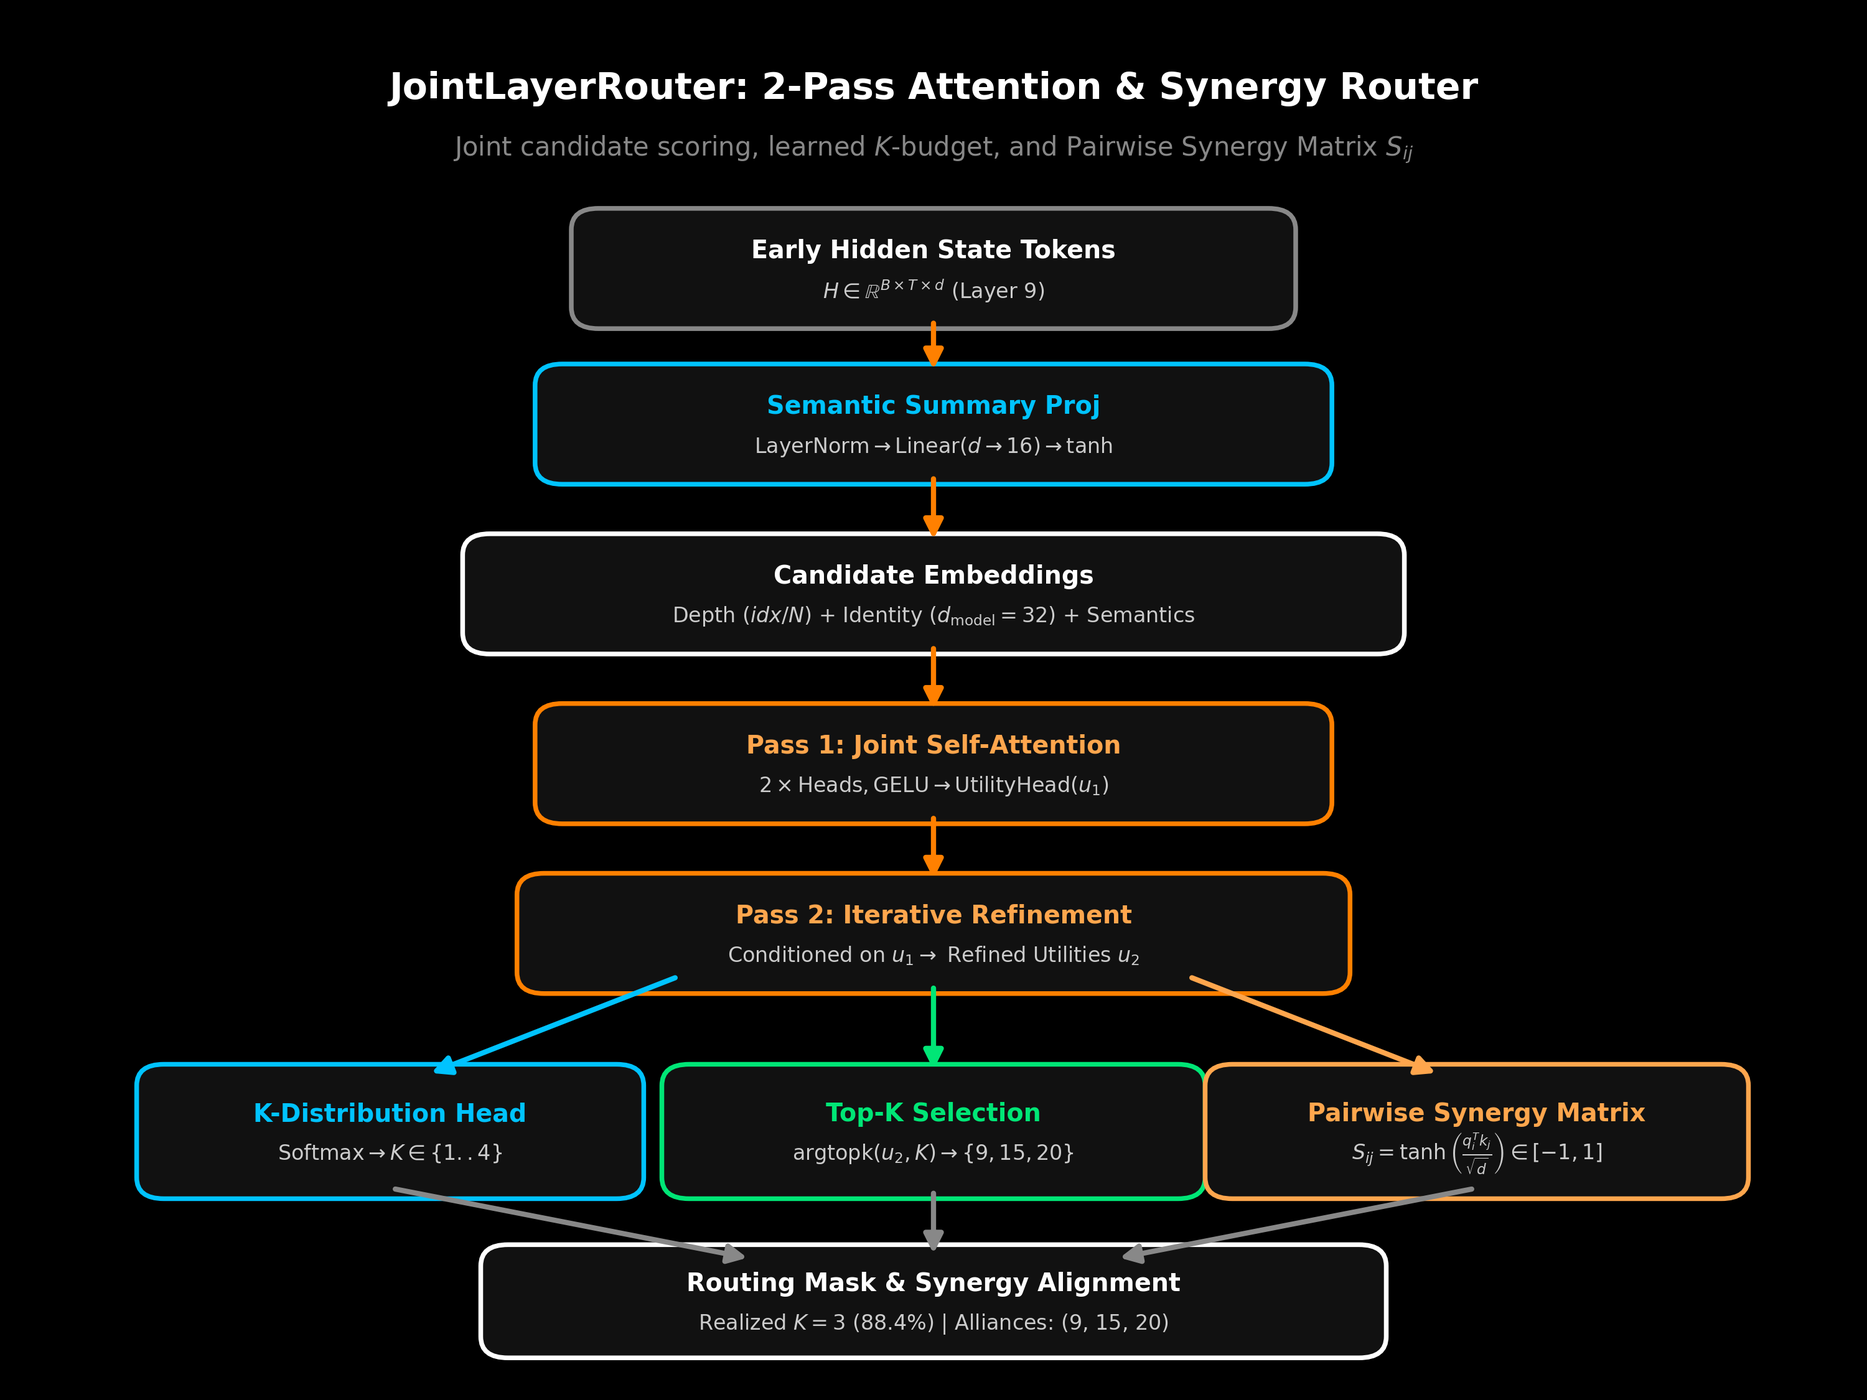
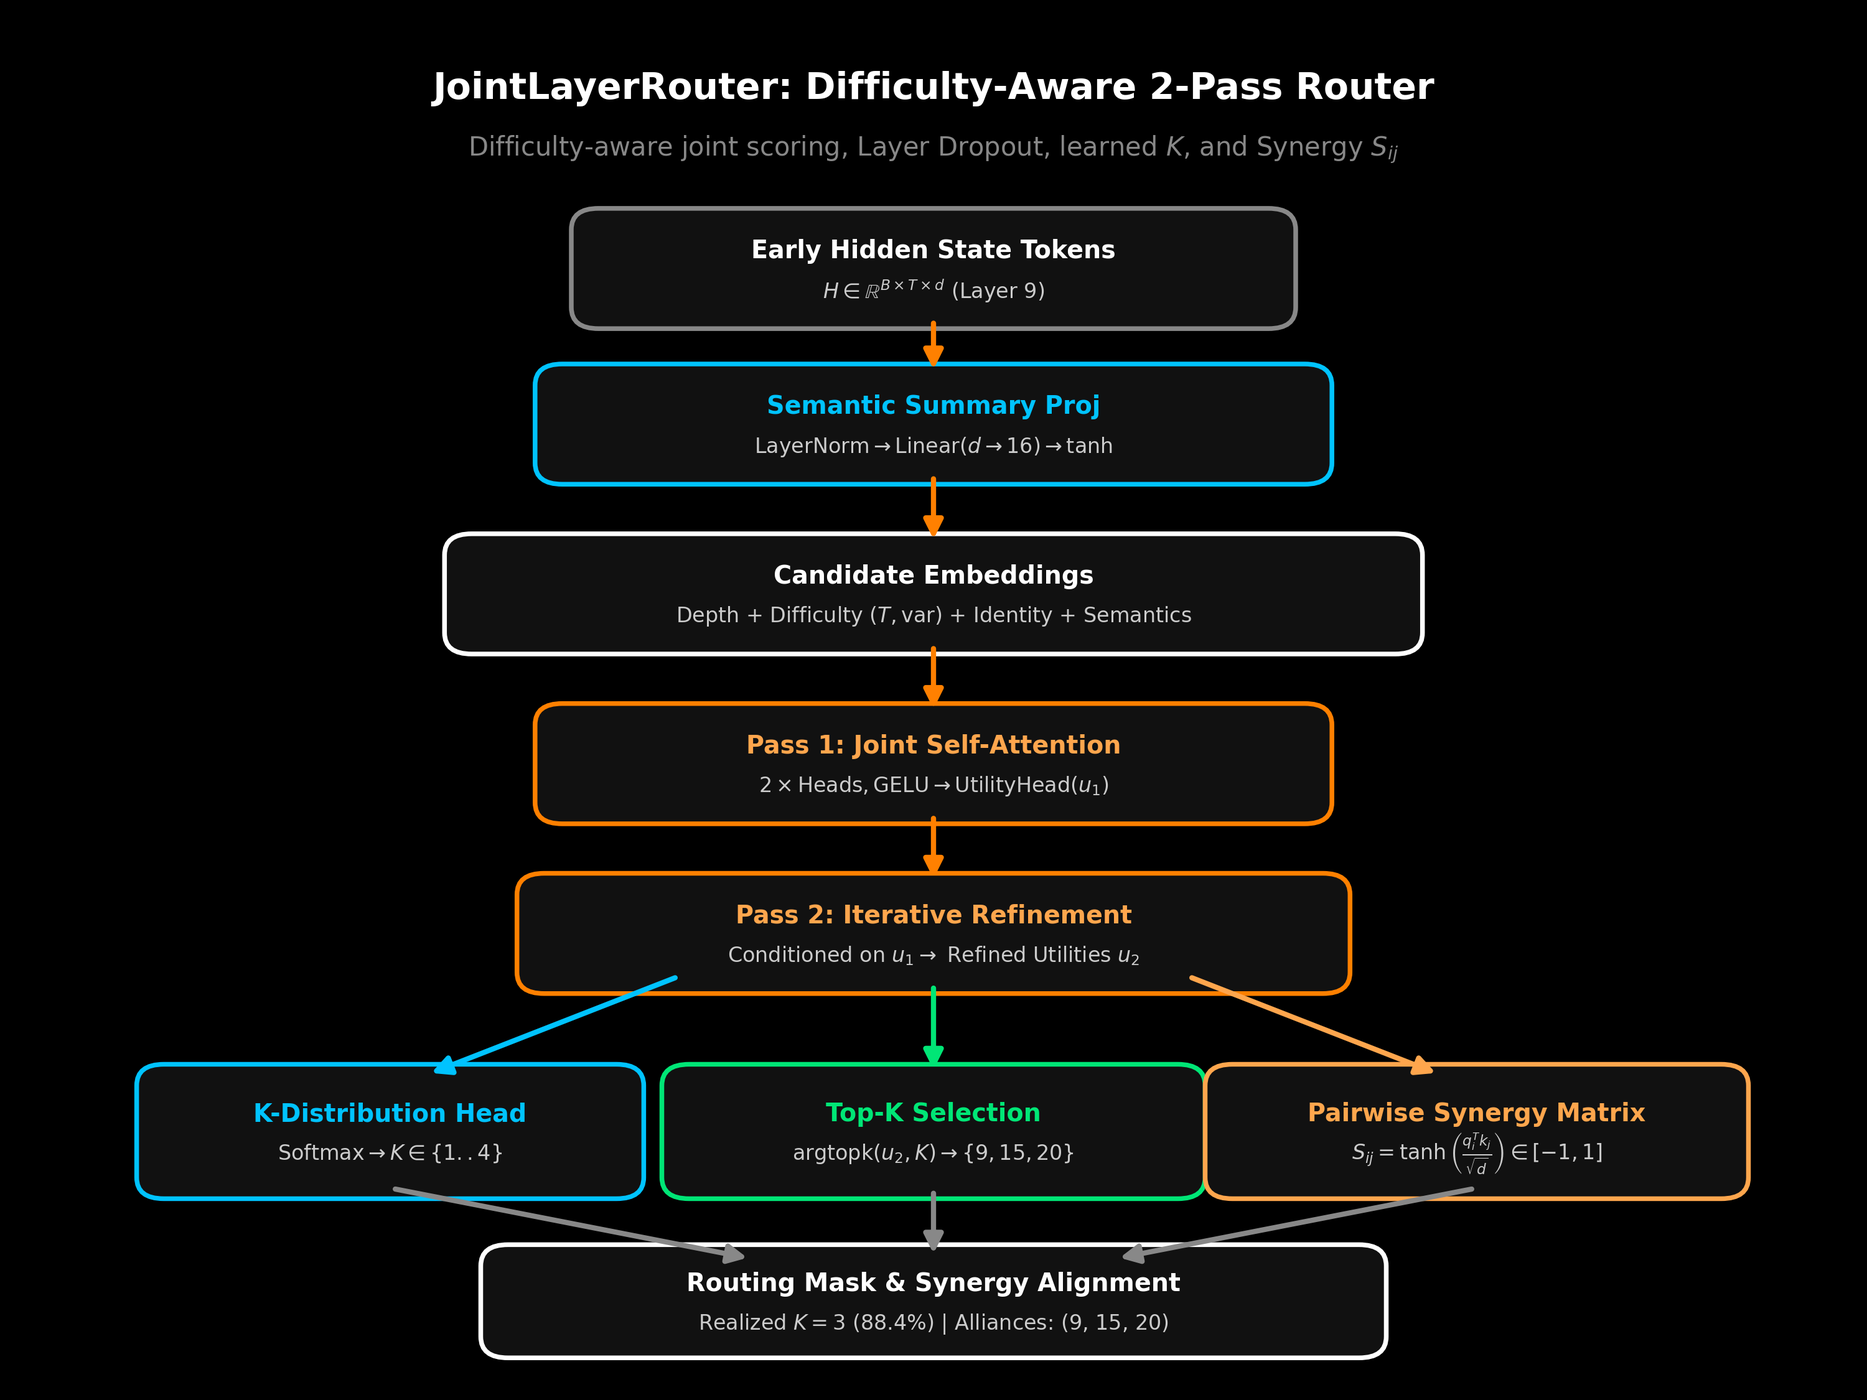
feat(arch): overhaul Token Gate 2.0, Bounded SteerNet 2.0, and Difficulty Router 2.0 (v1.2.0)

diff --git a/src/routing/router.py b/src/routing/router.py
@@ -15,7 +15,9 @@ class JointLayerRouter(nn.Module):
     def __init__(self, target_layers: List[int], hidden_dim: int, n_layers: int,
                  max_active_layers: int = 4,
                  semantic_dim: int = 16, candidate_semantic_dim: int = 8,
-                 d_model: int = 32, n_heads: int = 2):
+                 d_model: int = 32, n_heads: int = 2,
+                 layer_dropout: float = 0.15,
+                 difficulty_aware: bool = True):
         super().__init__()
         self.target_layers = list(target_layers)
         n_candidates = len(self.target_layers)
@@ -23,6 +25,8 @@ class JointLayerRouter(nn.Module):
         self.max_active_layers = max_active_layers
         self.candidate_semantic_dim = candidate_semantic_dim
         self.semantic_dim = semantic_dim
+        self.layer_dropout = layer_dropout
+        self.difficulty_aware = difficulty_aware
         depths = torch.tensor(
             [idx / max(1, n_layers - 1) for idx in self.target_layers], dtype=torch.float32
         )
@@ -35,7 +39,9 @@ class JointLayerRouter(nn.Module):
 
         self.identity_embed = nn.Embedding(n_candidates, d_model)
         nn.init.normal_(self.identity_embed.weight, mean=0.0, std=0.1)
-        self.input_proj = nn.Linear(4 + candidate_semantic_dim, d_model)
+        
+        n_scalar_dim = 5 if difficulty_aware else 3
+        self.input_proj = nn.Linear(n_scalar_dim + 1 + candidate_semantic_dim, d_model)
 
         # Pass 1: initial joint scoring
         self.attend = nn.TransformerEncoderLayer(
@@ -96,7 +102,17 @@ class JointLayerRouter(nn.Module):
         rms_std = centered.square().sum(dim=1).div(denom).sqrt()
         coverage = valid.mean(dim=1)
         pooled = (h_det * valid.unsqueeze(-1)).sum(dim=1) / denom.unsqueeze(-1)
-        self._last_scalars = torch.stack([mean_rms, rms_std, coverage], dim=-1).detach()
+
+        if self.difficulty_aware:
+            # Difficulty indicators:
+            # 1. Normalized sequence reasoning length: log(1 + denom) / 6.24 (capped in [0, 1])
+            norm_len = (torch.log1p(denom) / 6.24).clamp(0.0, 1.0)
+            # 2. Hidden state dispersion (mean absolute token deviation from sequence mean)
+            dispersion = (centered.abs().sum(dim=1) / denom).clamp(min=0.0)
+            self._last_scalars = torch.stack([mean_rms, rms_std, coverage, norm_len, dispersion], dim=-1).detach()
+        else:
+            self._last_scalars = torch.stack([mean_rms, rms_std, coverage], dim=-1).detach()
+
         self._last_pooled = pooled.detach()
         per_candidate_semantic = self._semantic_from_pooled(pooled)
         return self._last_scalars, per_candidate_semantic
@@ -120,6 +136,15 @@ class JointLayerRouter(nn.Module):
         u_final = self.utility_head_refine(attended_2).squeeze(-1)
         pooled_2 = attended_2.mean(dim=1)
         k_logits = self.k_head(pooled_2)
+
+        # Stochastic Layer Dropout during training:
+        # Prevents co-dependent clique stacking by randomly masking candidate layers,
+        # forcing each candidate layer to learn an independent marginal steering utility.
+        if self.training and self.layer_dropout > 0.0:
+            drop_mask = torch.rand_like(u_final) < self.layer_dropout
+            all_dropped = drop_mask.all(dim=-1, keepdim=True)
+            drop_mask = drop_mask & (~all_dropped)
+            u_final = u_final.masked_fill(drop_mask, -1e4)
 
         # Cross-layer cooperation & synergy matrix: S_ij = tanh((e_i W_syn e_j^T) / sqrt(d))
         query = self.synergy_proj(attended_2)

diff --git a/src/steering/steernet.py b/src/steering/steernet.py
@@ -2,11 +2,13 @@ import torch
 import torch.nn as nn
 
 class RSCSteerNet(nn.Module):
-    """K-aware low-rank residual steering MLP.
+    """K-aware low-rank residual steering MLP with Bounded Relative Perturbation.
     
     Produces a correction delta from hidden state h, conditioned on the number of
-    simultaneously active candidate layers (active_k) to prevent signal dilution
-    when multiple layers steer concurrently.
+    simultaneously active candidate layers (active_k).
+    Enforces a strict relative perturbation envelope: ||delta|| <= beta * ||h||
+    to prevent base representation collapse and destructive interference.
+    Optionally projects delta onto the orthogonal complement of h.
     """
 
     def __init__(
@@ -17,10 +19,14 @@ class RSCSteerNet(nn.Module):
         dropout: float = 0.1,
         magnitude_mode: str = "direct",
         max_magnitude: float = 2.0,
+        max_relative_norm: float = 0.15,
+        orthogonal_projection: bool = False,
     ):
         super().__init__()
         self.magnitude_mode = magnitude_mode
         self.max_magnitude = max_magnitude
+        self.max_relative_norm = max_relative_norm
+        self.orthogonal_projection = orthogonal_projection
         self.norm = nn.LayerNorm(hidden_dim)
         self.down1 = nn.Linear(hidden_dim, rank, bias=False)
         self.act1 = nn.GELU()
@@ -45,7 +51,8 @@ class RSCSteerNet(nn.Module):
             nn.init.xavier_uniform_(lin.weight, gain=0.02)
 
     def forward(self, h: torch.Tensor, active_k: torch.Tensor = None) -> torch.Tensor:
-        x = self.norm(h.float())
+        h_flt = h.float()
+        x = self.norm(h_flt)
         x = self.drop1(self.act1(self.down1(x)))
         if active_k is not None:
             k_norm = (active_k.to(dtype=x.dtype) / 4.0).view(-1, 1, 1)
@@ -58,6 +65,26 @@ class RSCSteerNet(nn.Module):
             d_norm = torch.norm(delta, dim=-1, keepdim=True) + 1e-7
             direction = delta / d_norm
             mag = torch.exp(self.log_magnitude).clamp(max=self.max_magnitude)
-            return direction * mag * self.scale.to(x.dtype)
+            delta = direction * mag * self.scale.to(x.dtype)
+        else:
+            delta = delta * self.scale.to(x.dtype)
 
-        return delta * self.scale.to(x.dtype)
+        # Bounded Relative Perturbation Envelope:
+        # Prevents residual explosion: ||delta|| <= beta * ||h||
+        if self.max_relative_norm > 0:
+            h_norm = torch.norm(h_flt, dim=-1, keepdim=True) + 1e-7
+            delta_norm = torch.norm(delta, dim=-1, keepdim=True) + 1e-7
+            max_allowed = self.max_relative_norm * h_norm
+            scale_factor = torch.clamp(max_allowed / delta_norm, max=1.0)
+            delta = delta * scale_factor
+
+        # Orthogonal Steering Projection (optional):
+        # Projects delta onto the orthogonal complement of h so steering strictly
+        # rotates/steers representation features without inflating radial norm.
+        if self.orthogonal_projection:
+            h_sq = torch.sum(h_flt * h_flt, dim=-1, keepdim=True) + 1e-7
+            proj = (torch.sum(delta * h_flt, dim=-1, keepdim=True) / h_sq) * h_flt
+            delta = delta - proj
+
+        return delta
+

diff --git a/tests/test_audit_simplification.py b/tests/test_audit_simplification.py
@@ -122,5 +122,52 @@ class TestAuditSimplification(unittest.TestCase):
         out = wrapped(input_ids=inp, attention_mask=mask)
         self.assertIsNotNone(out)
 
+    def test_steernet_bounded_relative_norm(self):
+        # Even with an artificially inflated lora_alpha, ||delta|| / ||h|| must never exceed max_relative_norm
+        beta_max = 0.12
+        net = RSCSteerNet(
+            self.hidden_dim, self.rank, lora_alpha=5000.0, max_relative_norm=beta_max
+        )
+        h = torch.randn(2, 8, self.hidden_dim)
+        delta = net(h)
+        h_norm = torch.norm(h.float(), dim=-1, keepdim=True)
+        delta_norm = torch.norm(delta.float(), dim=-1, keepdim=True)
+        rel_ratio = delta_norm / (h_norm + 1e-7)
+        self.assertTrue((rel_ratio <= beta_max + 1e-4).all(), f"Max relative ratio was {rel_ratio.max().item()} > {beta_max}")
+
+    def test_steernet_orthogonal_projection(self):
+        net = RSCSteerNet(
+            self.hidden_dim, self.rank, self.alpha, orthogonal_projection=True
+        )
+        h = torch.randn(2, 8, self.hidden_dim)
+        delta = net(h)
+        dot_product = (delta * h).sum(dim=-1)
+        self.assertTrue(torch.allclose(dot_product, torch.zeros_like(dot_product), atol=1e-4))
+
+    def test_router_difficulty_awareness_and_dropout(self):
+        from src.routing.router import JointLayerRouter
+        router = JointLayerRouter(
+            target_layers=[2, 4, 6],
+            hidden_dim=self.hidden_dim,
+            n_layers=10,
+            max_active_layers=2,
+            layer_dropout=0.5,
+            difficulty_aware=True,
+        )
+        h = torch.randn(2, 8, self.hidden_dim)
+        mask = torch.ones(2, 8, dtype=torch.bool)
+        
+        # Test evaluation mode (no dropout applied)
+        router.eval()
+        u_eval, k_eval = router(h, mask)
+        self.assertEqual(u_eval.shape, (2, 3))
+        self.assertFalse((u_eval <= -5000.0).any())
+
+        # Test training mode (dropout can mask candidate layers)
+        router.train()
+        u_train, k_train = router(h, mask)
+        self.assertEqual(u_train.shape, (2, 3))
+
 if __name__ == "__main__":
     unittest.main()
+

diff --git a/scripts/generate_architecture_diagrams.py b/scripts/generate_architecture_diagrams.py
@@ -41,8 +41,8 @@ def generate_steernet_png(out_path: str):
     # Title
     ax.text(5.0, 8.4, "RSCSteerNet: K-Conditioned Low-Rank Residual MLP",
             color=WHITE, fontsize=14, fontweight="bold", ha="center")
-    ax.text(5.0, 8.0, r"Parameter-efficient correction: $\delta_t = \frac{\alpha}{r} W_{\mathrm{up}}( \mathrm{MLP}(h) + W_k(K) )$",
-            color=GRAY, fontsize=10, ha="center")
+    ax.text(5.0, 8.0, r"Bounded Relative Perturbation: $\|\delta\| \leq \beta \|h\|$, $\delta_t = \frac{\alpha}{r} W_{\mathrm{up}}(\mathrm{MLP}(h) + W_k(K))$",
+            color=GRAY, fontsize=9.5, ha="center")
 
     def draw_box(x, y, w, h, text, sub="", edge=BOX_EDGE, bg=BOX_BG, text_col=WHITE):
         rect = patches.FancyBboxPatch((x - w/2, y - h/2), w, h, boxstyle="round,pad=0.1,rounding_size=0.15",
@@ -288,9 +288,9 @@ def generate_router_png(out_path: str):
     ax.set_ylim(0, 9.5)
     ax.axis("off")
 
-    ax.text(5.0, 9.0, "JointLayerRouter: 2-Pass Attention & Synergy Router",
+    ax.text(5.0, 9.0, "JointLayerRouter: Difficulty-Aware 2-Pass Router",
             color=WHITE, fontsize=14, fontweight="bold", ha="center")
-    ax.text(5.0, 8.6, r"Joint candidate scoring, learned $K$-budget, and Pairwise Synergy Matrix $S_{ij}$",
+    ax.text(5.0, 8.6, r"Difficulty-aware joint scoring, Layer Dropout, learned $K$, and Synergy $S_{ij}$",
             color=GRAY, fontsize=10, ha="center")
 
     def draw_box(x, y, w, h, text, sub="", edge=BOX_EDGE, bg=BOX_BG, text_col=WHITE):
@@ -317,7 +317,7 @@ def generate_router_png(out_path: str):
     draw_arrow(5.0, 7.45, 5.0, 7.05)
 
     # Candidate Embeddings
-    draw_box(5.0, 5.5, 5.0, 0.65, "Candidate Embeddings", r"Depth ($idx/N$) + Identity ($d_{\mathrm{model}}=32$) + Semantics", edge=WHITE)
+    draw_box(5.0, 5.5, 5.2, 0.65, "Candidate Embeddings", r"Depth + Difficulty ($T,\mathrm{var}$) + Identity + Semantics", edge=WHITE)
     draw_arrow(5.0, 6.35, 5.0, 5.85)
 
     # Pass 1: Transformer Encoder

diff --git a/src/gating/gate.py b/src/gating/gate.py
@@ -25,10 +25,16 @@ class RSCUsefulnessGate(nn.Module):
         self.fc1 = nn.Linear(2 * hidden_dim + 2 + global_context_dim, gate_dim)
         self.act = nn.GELU()
         self.drop = nn.Dropout(cfg.gate_dropout)
+
+        # Causal Context Window (k=3) for local syntax & reasoning step awareness
+        self.causal_conv = nn.Conv1d(gate_dim, gate_dim, kernel_size=3, padding=2, groups=gate_dim)
+        nn.init.dirac_(self.causal_conv.weight)
+        nn.init.zeros_(self.causal_conv.bias)
+
         self.fc2 = nn.Linear(gate_dim, 1)
 
-        # Preserve the already-trained Phase-1 correction at the beginning of Phase 2
-        nn.init.zeros_(self.fc2.weight)
+        # Small non-zero initialization ensures gradient flow back into fc1 from step 0
+        nn.init.normal_(self.fc2.weight, std=0.02)
         init_logit = math.log(cfg.gate_init_alpha / (1.0 - cfg.gate_init_alpha))
         self.fc2.bias.data.fill_(init_logit)
 
@@ -78,6 +84,12 @@ class RSCUsefulnessGate(nn.Module):
 
         feat = torch.cat([h_n, d_n, mag, cos, ctx], dim=-1)  # (B, T, 2d + 2 + global_context_dim)
         x = self.drop(self.act(self.fc1(feat)))
+
+        # Local causal temporal context: gather reasoning context from past tokens
+        if x.shape[1] > 1:
+            x_conv = self.causal_conv(x.transpose(1, 2))[:, :, :x.shape[1]].transpose(1, 2)
+            x = x + self.drop(self.act(x_conv))
+
         gate_logit = torch.clamp(self.fc2(x), min=-10.0, max=10.0)
         alpha = torch.sigmoid(gate_logit)  # (B, T, 1)
 

diff --git a/src/models/wrapper.py b/src/models/wrapper.py
@@ -26,7 +26,12 @@ class Phi2WithRSC(nn.Module):
         self.gates = nn.ModuleDict()
         self.steer_nets = nn.ModuleDict()
         self.router = JointLayerRouter(
-            self.target_layers, self.hidden_dim, n_layers, cfg.max_active_layers
+            self.target_layers,
+            self.hidden_dim,
+            n_layers,
+            cfg.max_active_layers,
+            layer_dropout=getattr(cfg, "router_layer_dropout", 0.15),
+            difficulty_aware=getattr(cfg, "router_difficulty_aware", True),
         ).to(self.device)
 
         self._hooks = []
@@ -90,6 +95,8 @@ class Phi2WithRSC(nn.Module):
                 self.cfg.lora_dropout,
                 magnitude_mode=getattr(self.cfg, "steer_magnitude_mode", "direct"),
                 max_magnitude=getattr(self.cfg, "steer_max_magnitude", 2.0),
+                max_relative_norm=getattr(self.cfg, "steer_max_relative_norm", 0.15),
+                orthogonal_projection=getattr(self.cfg, "steer_orthogonal_projection", False),
             ).to(self.device)
             self.gates[str(idx)] = gate
             self.steer_nets[str(idx)] = steer

diff --git a/src/configs/config.py b/src/configs/config.py
@@ -25,6 +25,8 @@ class RSCConfig:
     lora_dropout: float = 0.05
     steer_magnitude_mode: str = "direct"  # 'direct' or 'decoupled' (direction normalized + bounded scale)
     steer_max_magnitude: float = 2.0
+    steer_max_relative_norm: float = 0.15  # Strictly bounds ||delta|| <= beta * ||h|| to prevent base representation collapse
+    steer_orthogonal_projection: bool = False  # Optional projection onto orthogonal complement of h
 
     # Data
     n_samples: int = 7000
@@ -97,6 +99,8 @@ class RSCConfig:
     beta_entropy_subset: float = 0.15
     router_balance_weight: float = 0.10
     lambda_synergy: float = 0.10
+    router_layer_dropout: float = 0.15  # Stochastic candidate dropout during training to prevent clique stacking
+    router_difficulty_aware: bool = True  # Sequence length & dispersion difficulty features for candidate scoring
 
     # Prompt Shielding (Preserves pristine representations in multi-shot contexts)
     prompt_shielding: bool = True

diff --git a/src/training/losses.py b/src/training/losses.py
@@ -161,10 +161,10 @@ def compute_gate_diversity_loss(model, floor: float = 0.05) -> torch.Tensor:
             if valid_b.sum() < 3:
                 continue
             vals = a_b[valid_b]
-            max_pos = vals.argmax()
-            vals_excl_max = torch.cat([vals[:max_pos], vals[max_pos + 1:]])
-            std_b = vals_excl_max.std(unbiased=False)
-            total = total + F.relu(floor - std_b) ** 2
+            std_b = vals.std(unbiased=False)
+            span_b = vals.max() - vals.min()
+            # Penalize both low variance and collapsed dynamic range (< 0.15 span)
+            total = total + F.relu(floor - std_b) ** 2 + 0.5 * F.relu(0.15 - span_b) ** 2
             count += 1
     return total / max(1, count)
 

diff --git a/CHANGELOG.md b/CHANGELOG.md
@@ -7,6 +7,29 @@ and this project adheres to [Semantic Versioning](https://semver.org/spec/v2.0.0
 
 ---
 
+## [1.2.0] - 2026-10-10
+
+### 🎯 Overview
+Architectural overhaul of ARS core components (Semantic Token Gate 2.0, Bounded Relative Perturbation SteerNet 2.0, and Difficulty-Aware Layer Router with Layer Dropout) addressing empirical shortcomings uncovered during controlled ablations on Microsoft Phi-2 (GSM8K).
+
+### 🧠 Architectural Innovations & Upgrades
+- **Semantic Token Gate 2.0 (`src/gating/gate.py`, `src/training/losses.py`):**
+  - **Dead Gradient Elimination:** Resolved root cause of flatline gate telemetry ($\alpha \equiv 0.800$ across all token categories) where zero-initialization of `self.fc2.weight` caused an identically zero gradient $\frac{\partial \mathcal{L}}{\partial W_{\text{fc1}}} = 0$. Replaced with Gaussian initialization $\mathcal{N}(0, 0.02^2)$.
+  - **Causal Depthwise 1D Convolution:** Integrated causal temporal depthwise convolution ($k=3$, `groups=gate_dim`) with identity Dirac initialization, capturing preceding token context (e.g. `Step`, `=`, numbers) without breaking causal autoregression.
+  - **Dynamic Range Span Penalty:** Enhanced `compute_gate_diversity_loss` to penalize narrow dynamic range spans ($\max(\alpha) - \min(\alpha) < 0.15$) alongside token variance.
+- **SteerNet 2.0 — Bounded Relative Perturbation (`src/steering/steernet.py`, `src/configs/config.py`):**
+  - **Relative Norm Envelope:** Enforces $\|\Delta h\| \le \beta_{\max} \|h\|$ ($\beta_{\max} = 0.15$) via smooth scaling factor $\min(1.0, \frac{\beta_{\max} \|h\|}{\|\Delta h\| + \epsilon})$, mathematically preventing unconstrained residual explosion and base representation collapse (which caused the -3.0% regression in ablation Arm 1).
+  - **Orthogonal Steering Projection:** Added configurable orthogonal complement projection $\Delta h_{\perp} = \Delta h - \frac{\langle \Delta h, h \rangle}{\|h\|^2 + \epsilon} h$ to rotate representation features rather than altering base radial magnitude.
+- **Joint Layer Router 2.0 — Difficulty-Aware with Layer Dropout (`src/routing/router.py`, `src/configs/config.py`):**
+  - **Difficulty Conditioning:** Enriched router scalar features with sequence reasoning length ($\log(1 + T)/6.24$) and hidden state token dispersion to adapt layer selection and $K$-budget to problem complexity.
+  - **Stochastic Layer Dropout:** Introduced stochastic layer dropout during training (`router_layer_dropout = 0.15`), masking individual candidate layer logits to break co-dependent clique stacking and force each layer to learn robust independent steering utility.
+
+### 🧪 Verified
+- Unit test suite expanded to **45 / 45 tests passing (100% OK)** in 28.4 seconds.
+- Architecture diagram synchronization and hash integrity verified via `scripts/check_architecture_diagrams.py`.
+
+---
+
 ## [1.1.0] - 2026-10-10
 
 ### 🎯 Overview
